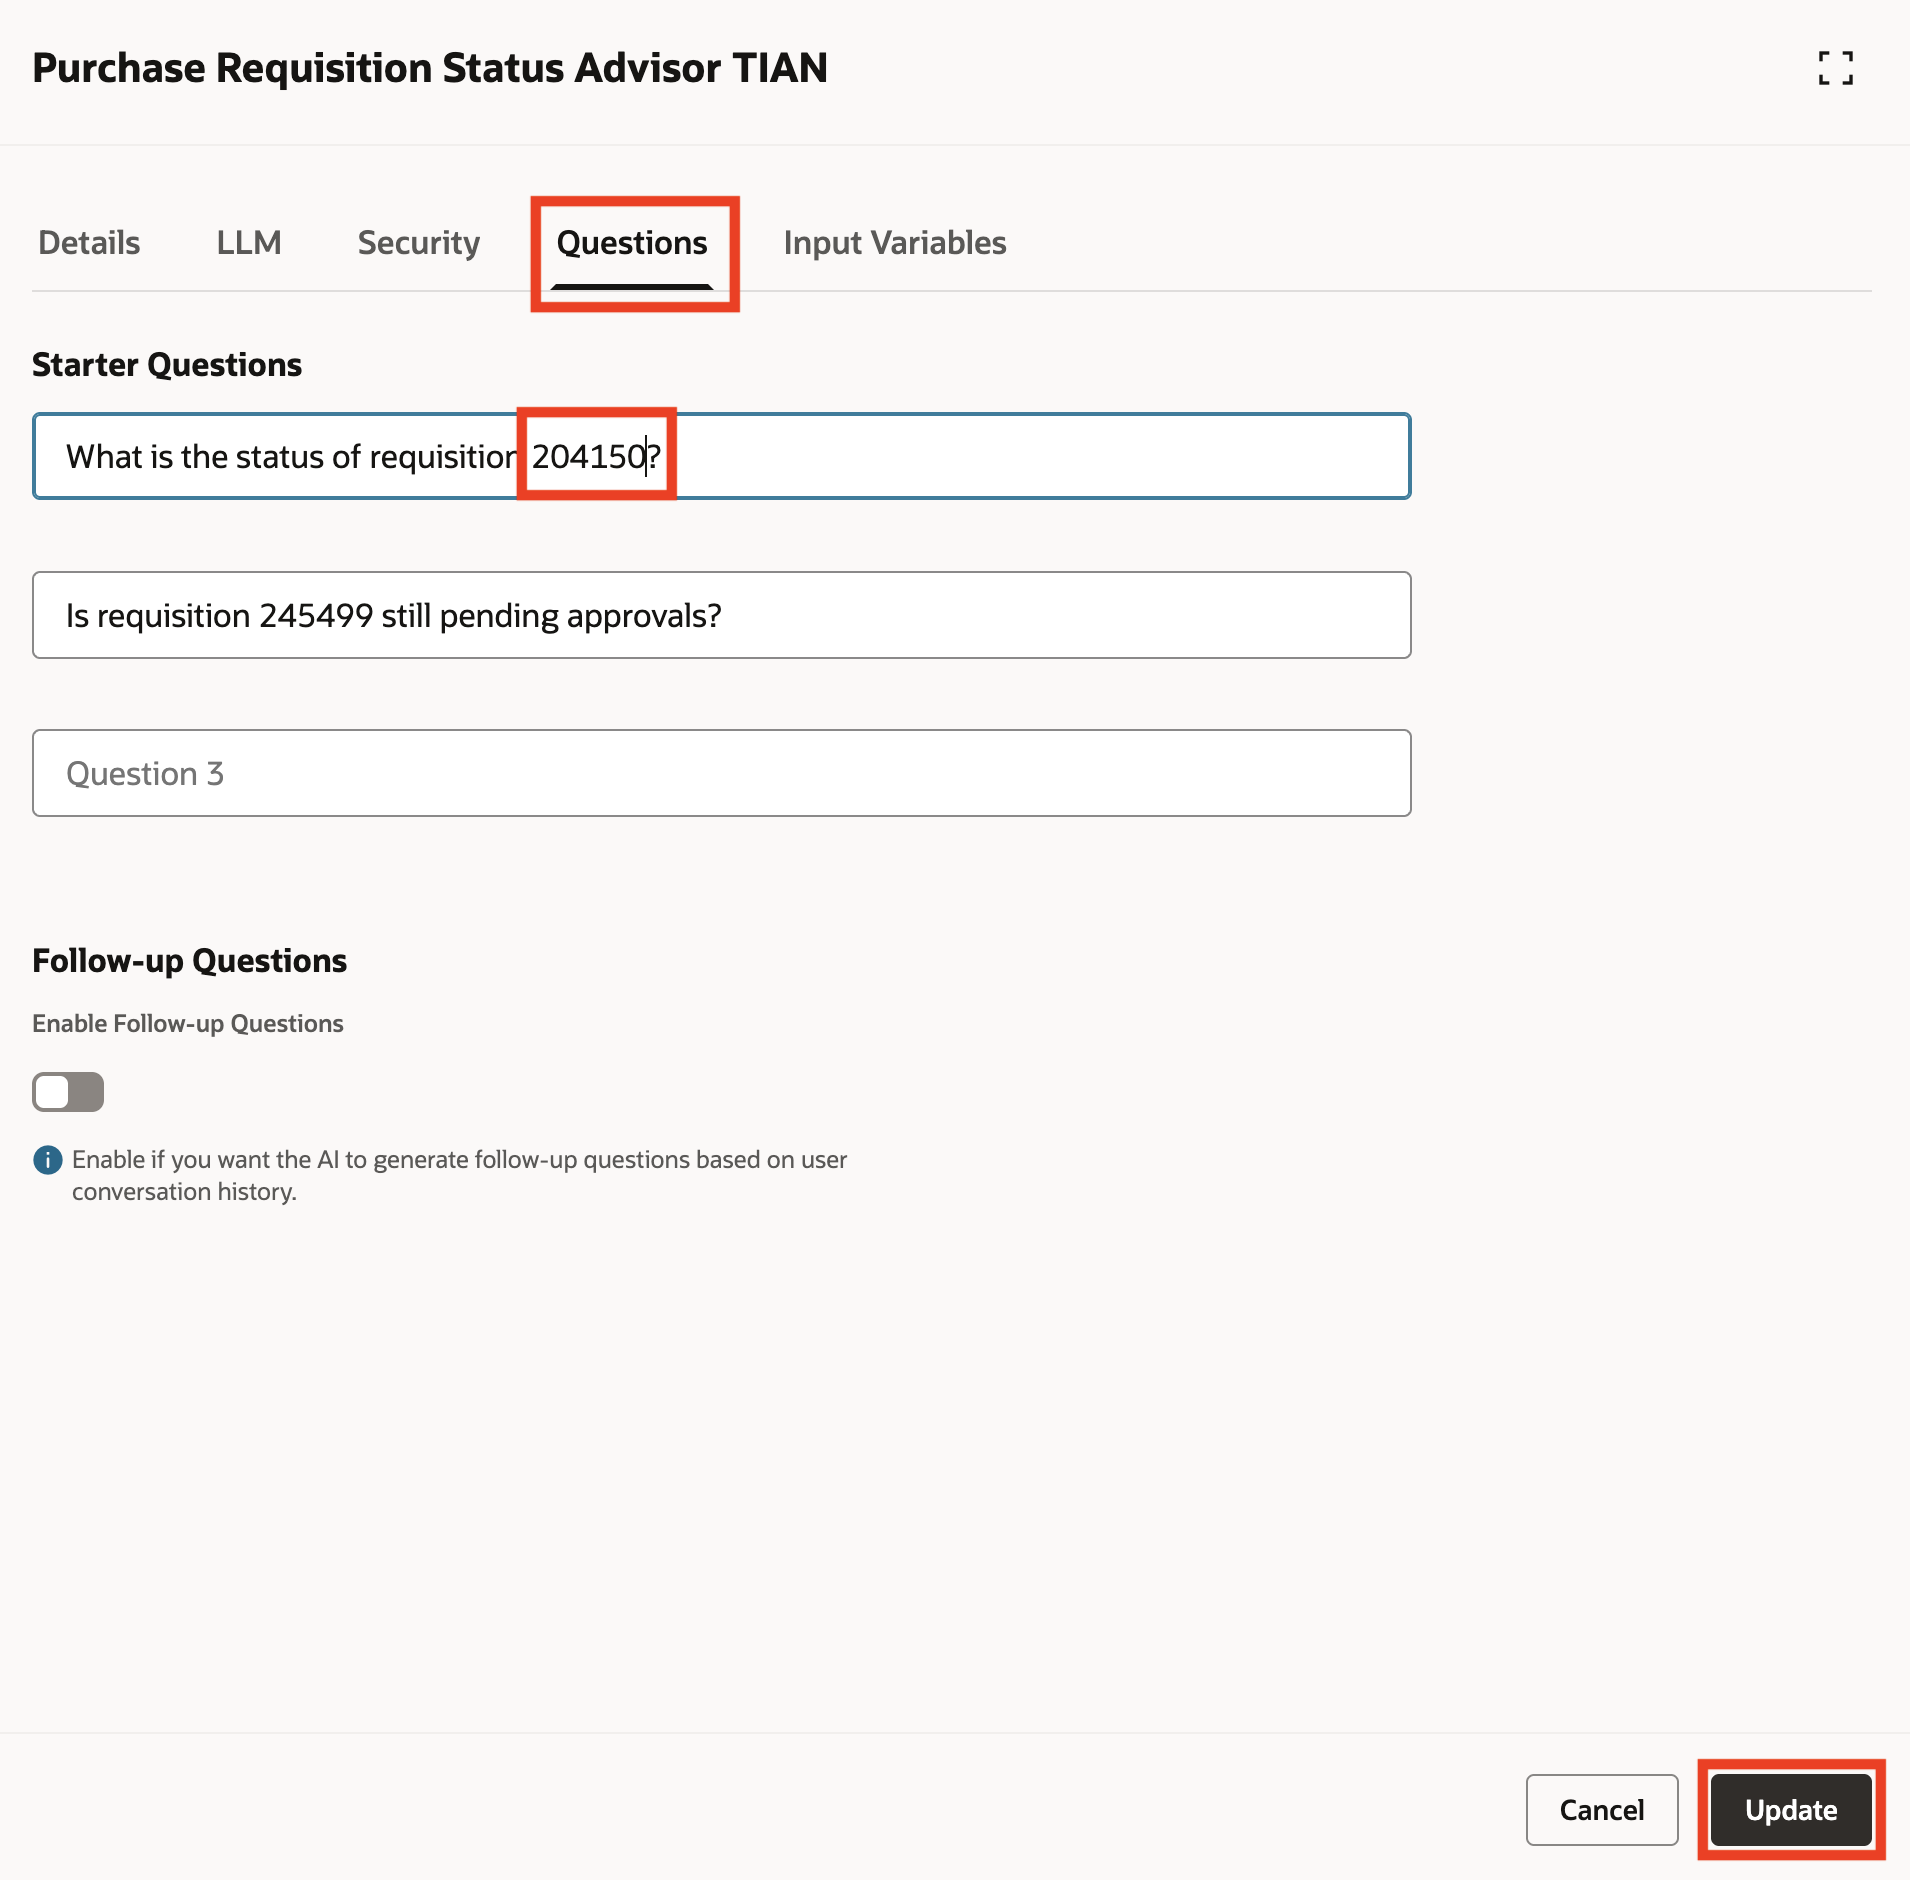
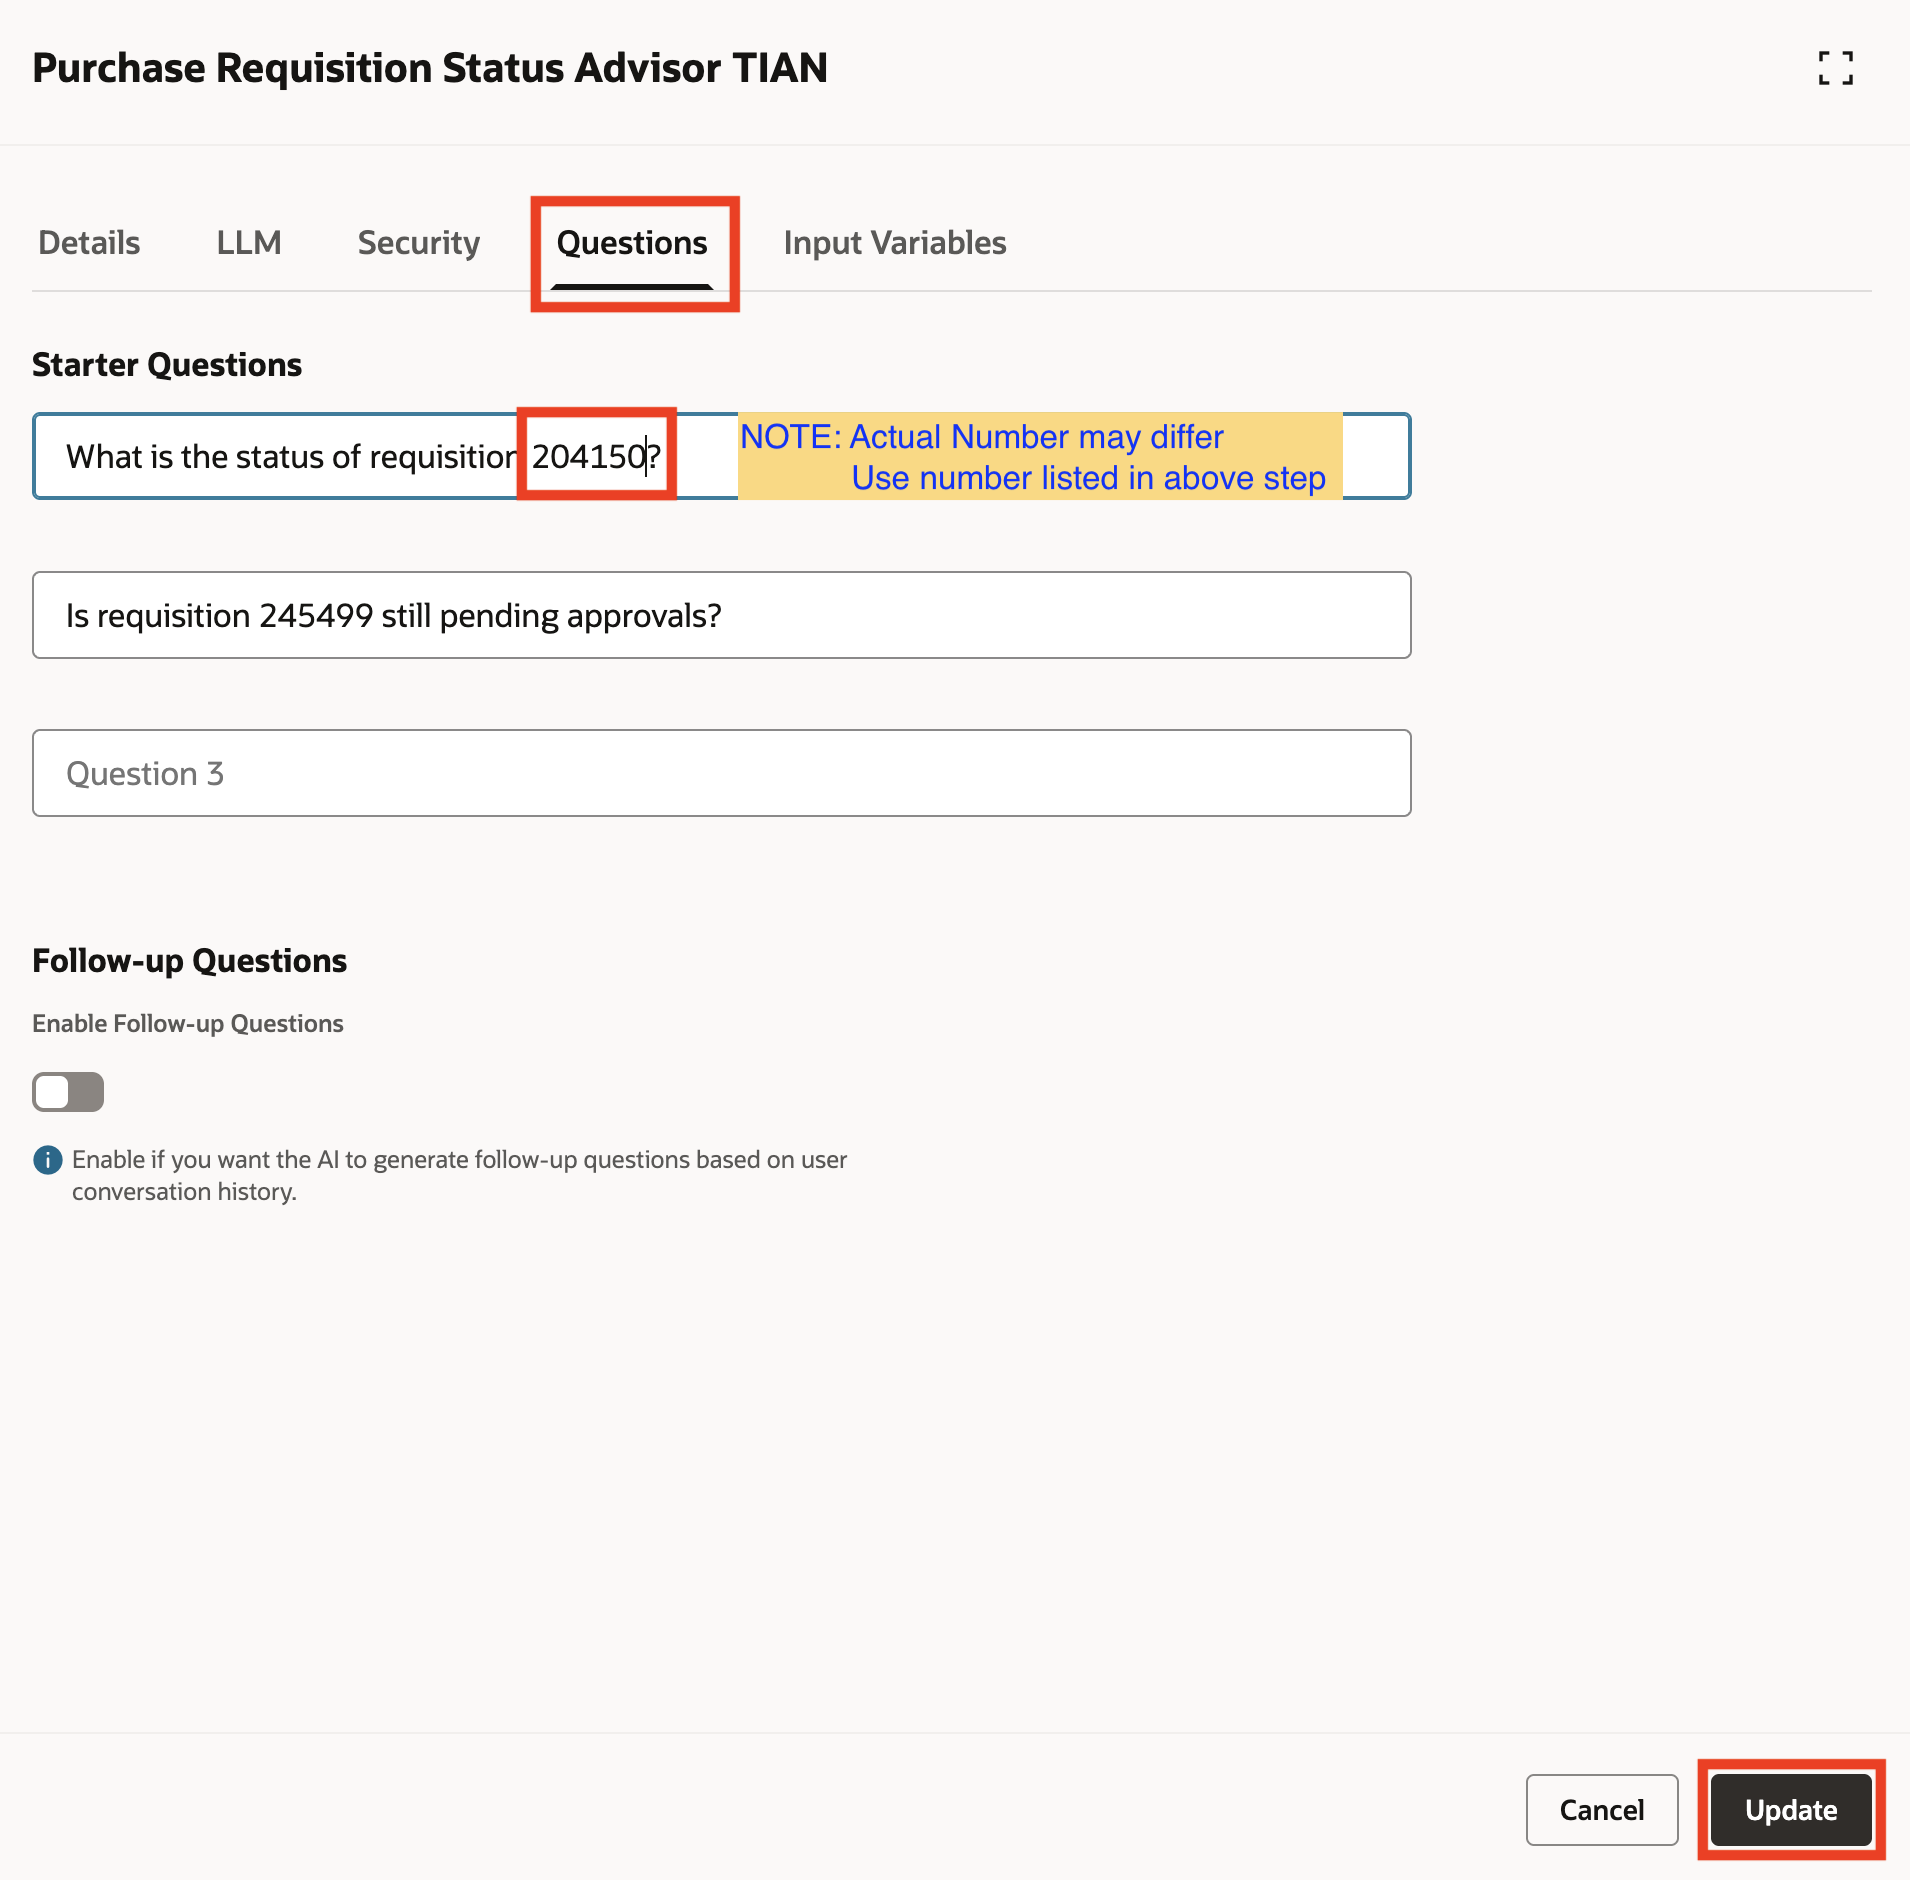
January updates (#531)
* recreated directory

* removed -ds_store files

* removed ds_store

* removed ds_store

* removed more DS_store

* dialog change - also some files for app setup

* dialog change - also some files for app setup

* Update setup.md

Changed region(s): [[0.3707, 0.216, 0.7105, 0.2777]]

diff --git a/apps-ai-experience-extend-pr-assistant/workshops/setup/index.html b/apps-ai-experience-extend-pr-assistant/workshops/setup/index.html
@@ -1,0 +1,63 @@
+<!DOCTYPE html>
+<html lang="en">
+
+<head>
+    <meta charset="utf-8">
+    <meta http-equiv="X-UA-Compatible" content="IE=edge">
+    <meta name="viewport" content="width=device-width, initial-scale=1">
+    <meta name="description" content="Oracle LiveLabs gives you access to Oracle's products to run a wide variety of labs and workshops; allowing you to experience our best technology, live!">
+    <title>Oracle LiveLabs</title>
+
+    <script src="https://oracle-livelabs.github.io/common/redwood-hol/js/jquery-1.11.0.min.js"></script>
+    <script src="https://oracle-livelabs.github.io/common/redwood-hol/js/jquery-ui-1.10.4.custom.js"></script>
+    <script src="https://oracle-livelabs.github.io/common/redwood-hol/js/main.min.js"></script>
+
+    <link rel="stylesheet" href="https://oracle-livelabs.github.io/common/redwood-hol/css/style.min.css" />
+    <link rel="shortcut icon" href="https://oracle-livelabs.github.io/common/redwood-hol/img/favicon.ico" />
+    
+</head>
+
+<body>
+    <header class="hol-Header" role="banner">
+        <div class="hol-Header-wrap">
+            <div class="hol-Header-logo"><span>Oracle LiveLabs</span></div>
+            <a href="https://livelabs.oracle.com" target="_blank" id="livelabs" title="Oracle LiveLabs"></a>
+            <div class="hol-Header-actions">
+                <button id="openNav" class="hol-Header-button hol-Header-button--menu rightNav" aria-label="Open Menu"
+                    title="Open Menu">
+                    <span class="hol-Header-toggleIcon"></span>
+                </button>
+            </div>
+        </div>
+    </header>
+
+    <div id="container">
+        <div id="leftNav">
+            <div id="toc"></div>
+        </div>
+        <div id="contentBox">
+            <main class="hol-Content" id="module-content"></main>
+        </div>
+    </div>
+
+      <footer class="hol-Footer">
+        <a class="hol-Footer-topLink" href="#top">Return to Top</a>
+        <div id="footer-banner"><div class="footer-row">
+          <div class="footer-content"><ul class="footer-links">
+              <li><a href="https://docs.oracle.com/pls/topic/lookup?ctx=en/legal&id=cpyr" target="_blank" aria-label="Open a new window to Oracle legal notices" data-lbl="copyright">© Oracle</a></li>
+              <li><a href="https://www.oracle.com/corporate/index.html" target="_blank" aria-label="Open a new window to learn more about oracle" data-lbl="about-oracle">About Oracle</a></li>
+              <li><a href="https://www.oracle.com/corporate/contact/" target="_blank" aria-label="Open a new window to contact oracle" data-lbl="contact-us">Contact Us</a></li>
+              <li class="footer-links-break"></li>
+              <li><a href="https://docs.oracle.com/en/browseall.html" target="_blank" aria-label="Open a new window to products a-z" data-lbl="products-a-z">Products A-Z</a></li>
+              <li><a href="https://www.oracle.com/legal/privacy/" target="_blank" aria-label="Open a new window to read more about Oracle terms of use and privacy" data-lbl="terms-of-use-and-privacy">Terms of Use & Privacy</a></li>
+              <li><a href="https://www.oracle.com/legal/privacy/privacy-policy.html#11" target="_blank" aria-label="Open a new window to read more about managing Oracle cookie preferences" data-lbl="cookie-preferences">Cookie Preferences</a></li>
+              <li><a href="https://www.oracle.com/legal/privacy/marketing-cloud-data-cloud-privacy-policy.html#adchoices" target="_blank" aria-label="Open a new window to ad choices" data-lbl="ad-choices">Ad Choices</a></li>
+              <li class="footer-links-break"></li><li class="last"><a href="https://docs.oracle.com/pls/topic/lookup?ctx=en/legal&id=cpyr" target="_blank" aria-label="Open a new window to Oracle legal notices" data-lbl="copyright">© Oracle</a></li>
+            </ul>
+          </div>
+        </div>
+      </div>
+    </footer>
+</body>
+
+</html>

diff --git a/apps-ai-experience-extend-pr-assistant/00.1-setup/setup.md b/apps-ai-experience-extend-pr-assistant/00.1-setup/setup.md
@@ -1,0 +1,41 @@
+# Introduction
+
+## Introduction
+
+Use these instructions to setup the Supplier_Stock VB app for the supplier inquiry as well as the API tool to use in the custom agent.
+
+Estimated Completion Time: 20 minutes
+
+### **Objectives**
+
+Setup demo in new environment. You will:
+- Add Supplier_Stock Visual Builder app and populate with data
+- Add External REST tool to query Supplier_Stock Visual Builder app
+
+### **Prerequisites**
+- Visual Builder environment
+- Purchase Requisition data accessible to demo user(s)
+
+## Task 1: Download and install Supplier_Stock Visual Builder app
+
+1. First login to your Visual Builder design app.
+
+2. Import Supplier_Stock Visual Builder app.
+    > From Visual Builder home page, select Import:
+
+    ![Create from import](images/create_import.png " ")
+
+    > Select **Application from file**:
+
+    ![application_from_file](images/application_from_file.png " ")
+
+    > Download zip file **[HERE](files/supplier_stock.zip?download=1)** and drag it to **Drag and Drop** area, change application name if desired, and click Import:
+
+    ![drag_drop_file](images/import_dialog.png " ")
+
+[Proceed to the first lab to get started!] (#next)
+
+## Acknowledgements
+* **Author** - [](var:author)
+* **Contributors** - [](var:contributors)
+* **Last Updated By/Date** - [](var:last_updated)

diff --git a/apps-ai-experience-extend-pr-assistant/02-pr-advisor-create-new-agent/pr_advisor_create_new_agent.md b/apps-ai-experience-extend-pr-assistant/02-pr-advisor-create-new-agent/pr_advisor_create_new_agent.md
@@ -79,9 +79,9 @@ Understand how to build a simple prompt to collect relevant information from an 
 
    ![API tool Create](images/image010.png " ")
 
-    > Click on the **Publish** button if you get a **KEY\_NOT\_FOUND** error:
+    > Click on the **Publish** button on the Publish Custom Agent popup:
 
-   ![API tool error](images/image009.png " ")
+   ![API tool error](images/publishDialog.png " ")
 
    **Congratulations!** You have created your first AI Agent!  In the next module we'll incorporate it into a multi-agent team.
 
@@ -96,6 +96,6 @@ You should now have an understanding of what an **External REST API Tool** does,
 [Proceed to the next lab](#next)
 
 ## Acknowledgements
-* **Author** - Rick Beck, Master Principal SaaS Platform Technologist, NAA Office of Technology and Innovation
-* **Contributors** -  Tim Sullivan
-* **Last Updated By/Date** - Rick Beck, December 2025, based on Fusion 25D
+* **Author** - [](var:author)
+* **Contributors** - [](var:contributors)
+* **Last Updated By/Date** - [](var:last_updated)

diff --git a/apps-ai-experience-extend-pr-assistant/03-pr-advisor-build-multi-agent-team/pr_advisor_create_multi_agent_team.md b/apps-ai-experience-extend-pr-assistant/03-pr-advisor-build-multi-agent-team/pr_advisor_create_multi_agent_team.md
@@ -60,7 +60,7 @@ Supervisor agents act as a central coordinator that orchestrates a team of other
 
    ![Agent Team settings](images/image006.png " ")
 
-   > Select the **Questions** tab and change the requisition number in the first question to **204150**.<br/>
+   > Select the **Questions** tab and change the requisition number in the first question to **[](var:pr_num)**.<br/>
    > Click **Update**:
 
    ![modify agent question](images/image007.png " ")
@@ -132,6 +132,6 @@ Supervisor agents act as a central coordinator that orchestrates a team of other
 
 
 ## Acknowledgements
-* **Author** - Rick Beck, Master Principal SaaS Platform Technologist, NAA Office of Technology and Innovation
-* **Contributors** -  Tim Sullivan
-* **Last Updated By/Date** - Rick Beck, December 2025, based on Fusion 25D
+* **Author** - [](var:author)
+* **Contributors** - [](var:contributors)
+* **Last Updated By/Date** - [](var:last_updated)

diff --git a/apps-ai-experience-extend-pr-assistant/workshops/setup/login_usage_notes.md b/apps-ai-experience-extend-pr-assistant/workshops/setup/login_usage_notes.md
@@ -1,0 +1,11 @@
+When creating agents and teams in Fusion AI Agent Studio, all components must have a unique name.
+
+To ensure your components have a unique name, please use an initial code when naming your components.
+
+Take the first two letters of your first name and last two letters of your last name to form a unique code.  If this spells out a common word, add a number.
+
+> **EXAMPLE:**<br/>
+> ***TI***M SULLIV***AN*** = ***TIAN***<br/>
+> ***CO***RY WA***DE*** = ***CODE2***
+
+Once you have chosen a code, use it consistently to ensure you can easily find your components.

diff --git a/apps-ai-experience-extend-pr-assistant/00-introduction/introduction.md b/apps-ai-experience-extend-pr-assistant/00-introduction/introduction.md
@@ -19,6 +19,6 @@ This Activity Guide will lead you along the way through a set of labs, where you
 [Proceed to the first lab to get started!] (#next)
 
 ## Acknowledgements
-* **Author** - Rick Beck, Master Principal SaaS Platform Technologist, NAA Office of Technology and Innovation
-* **Contributors** -  Tim Sullivan
-* **Last Updated By/Date** - Rick Beck, December 2025, based on Fusion 25D
+* **Author** - [](var:author)
+* **Contributors** - [](var:contributors)
+* **Last Updated By/Date** - [](var:last_updated)

diff --git a/apps-ai-experience-extend-pr-assistant/01-pr-advisor-explore/pr_advisor_explore.md b/apps-ai-experience-extend-pr-assistant/01-pr-advisor-explore/pr_advisor_explore.md
@@ -143,6 +143,6 @@ In the next lab we will create a custom agent to expand the capabilities of this
 [Proceed to the next lab](#next)
 
 ## Acknowledgements
-* **Author** - Rick Beck, Master Principal SaaS Platform Technologist, NAA Office of Technology and Innovation
-* **Contributors** -  Tim Sullivan
-* **Last Updated By/Date** - Rick Beck, December 2025, based on Fusion 25D
+* **Author** - [](var:author)
+* **Contributors** - [](var:contributors)
+* **Last Updated By/Date** - [](var:last_updated)
